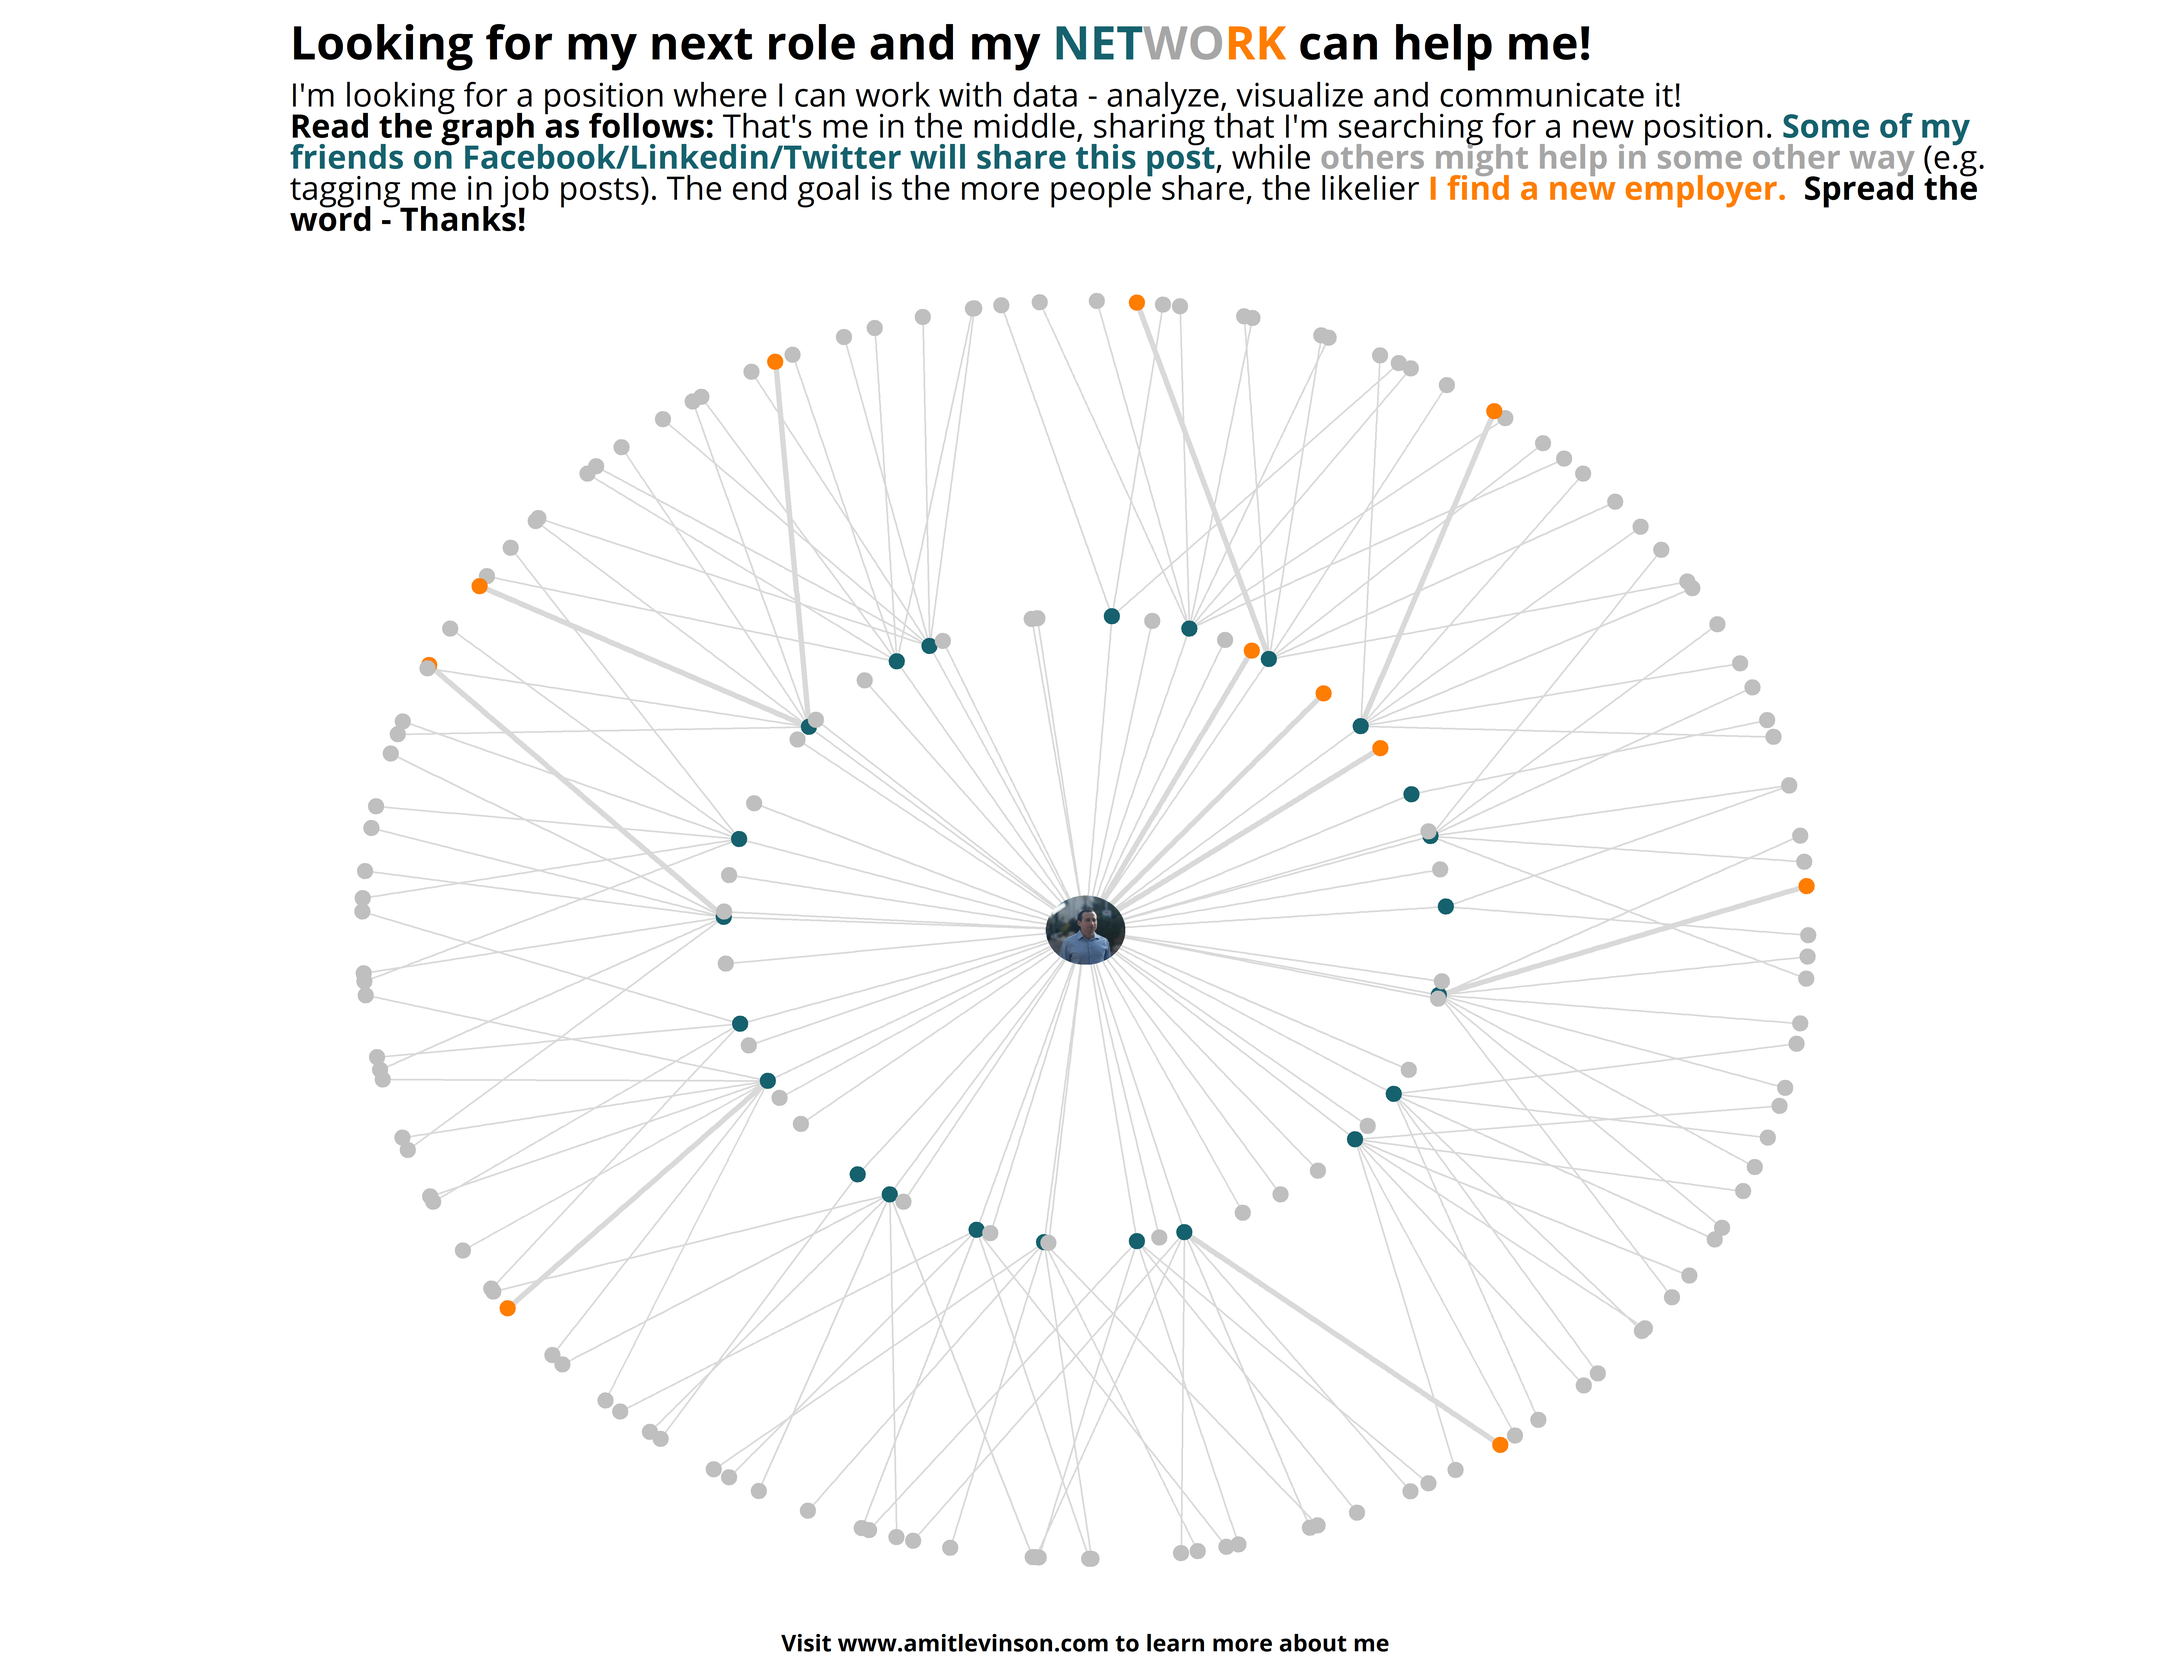
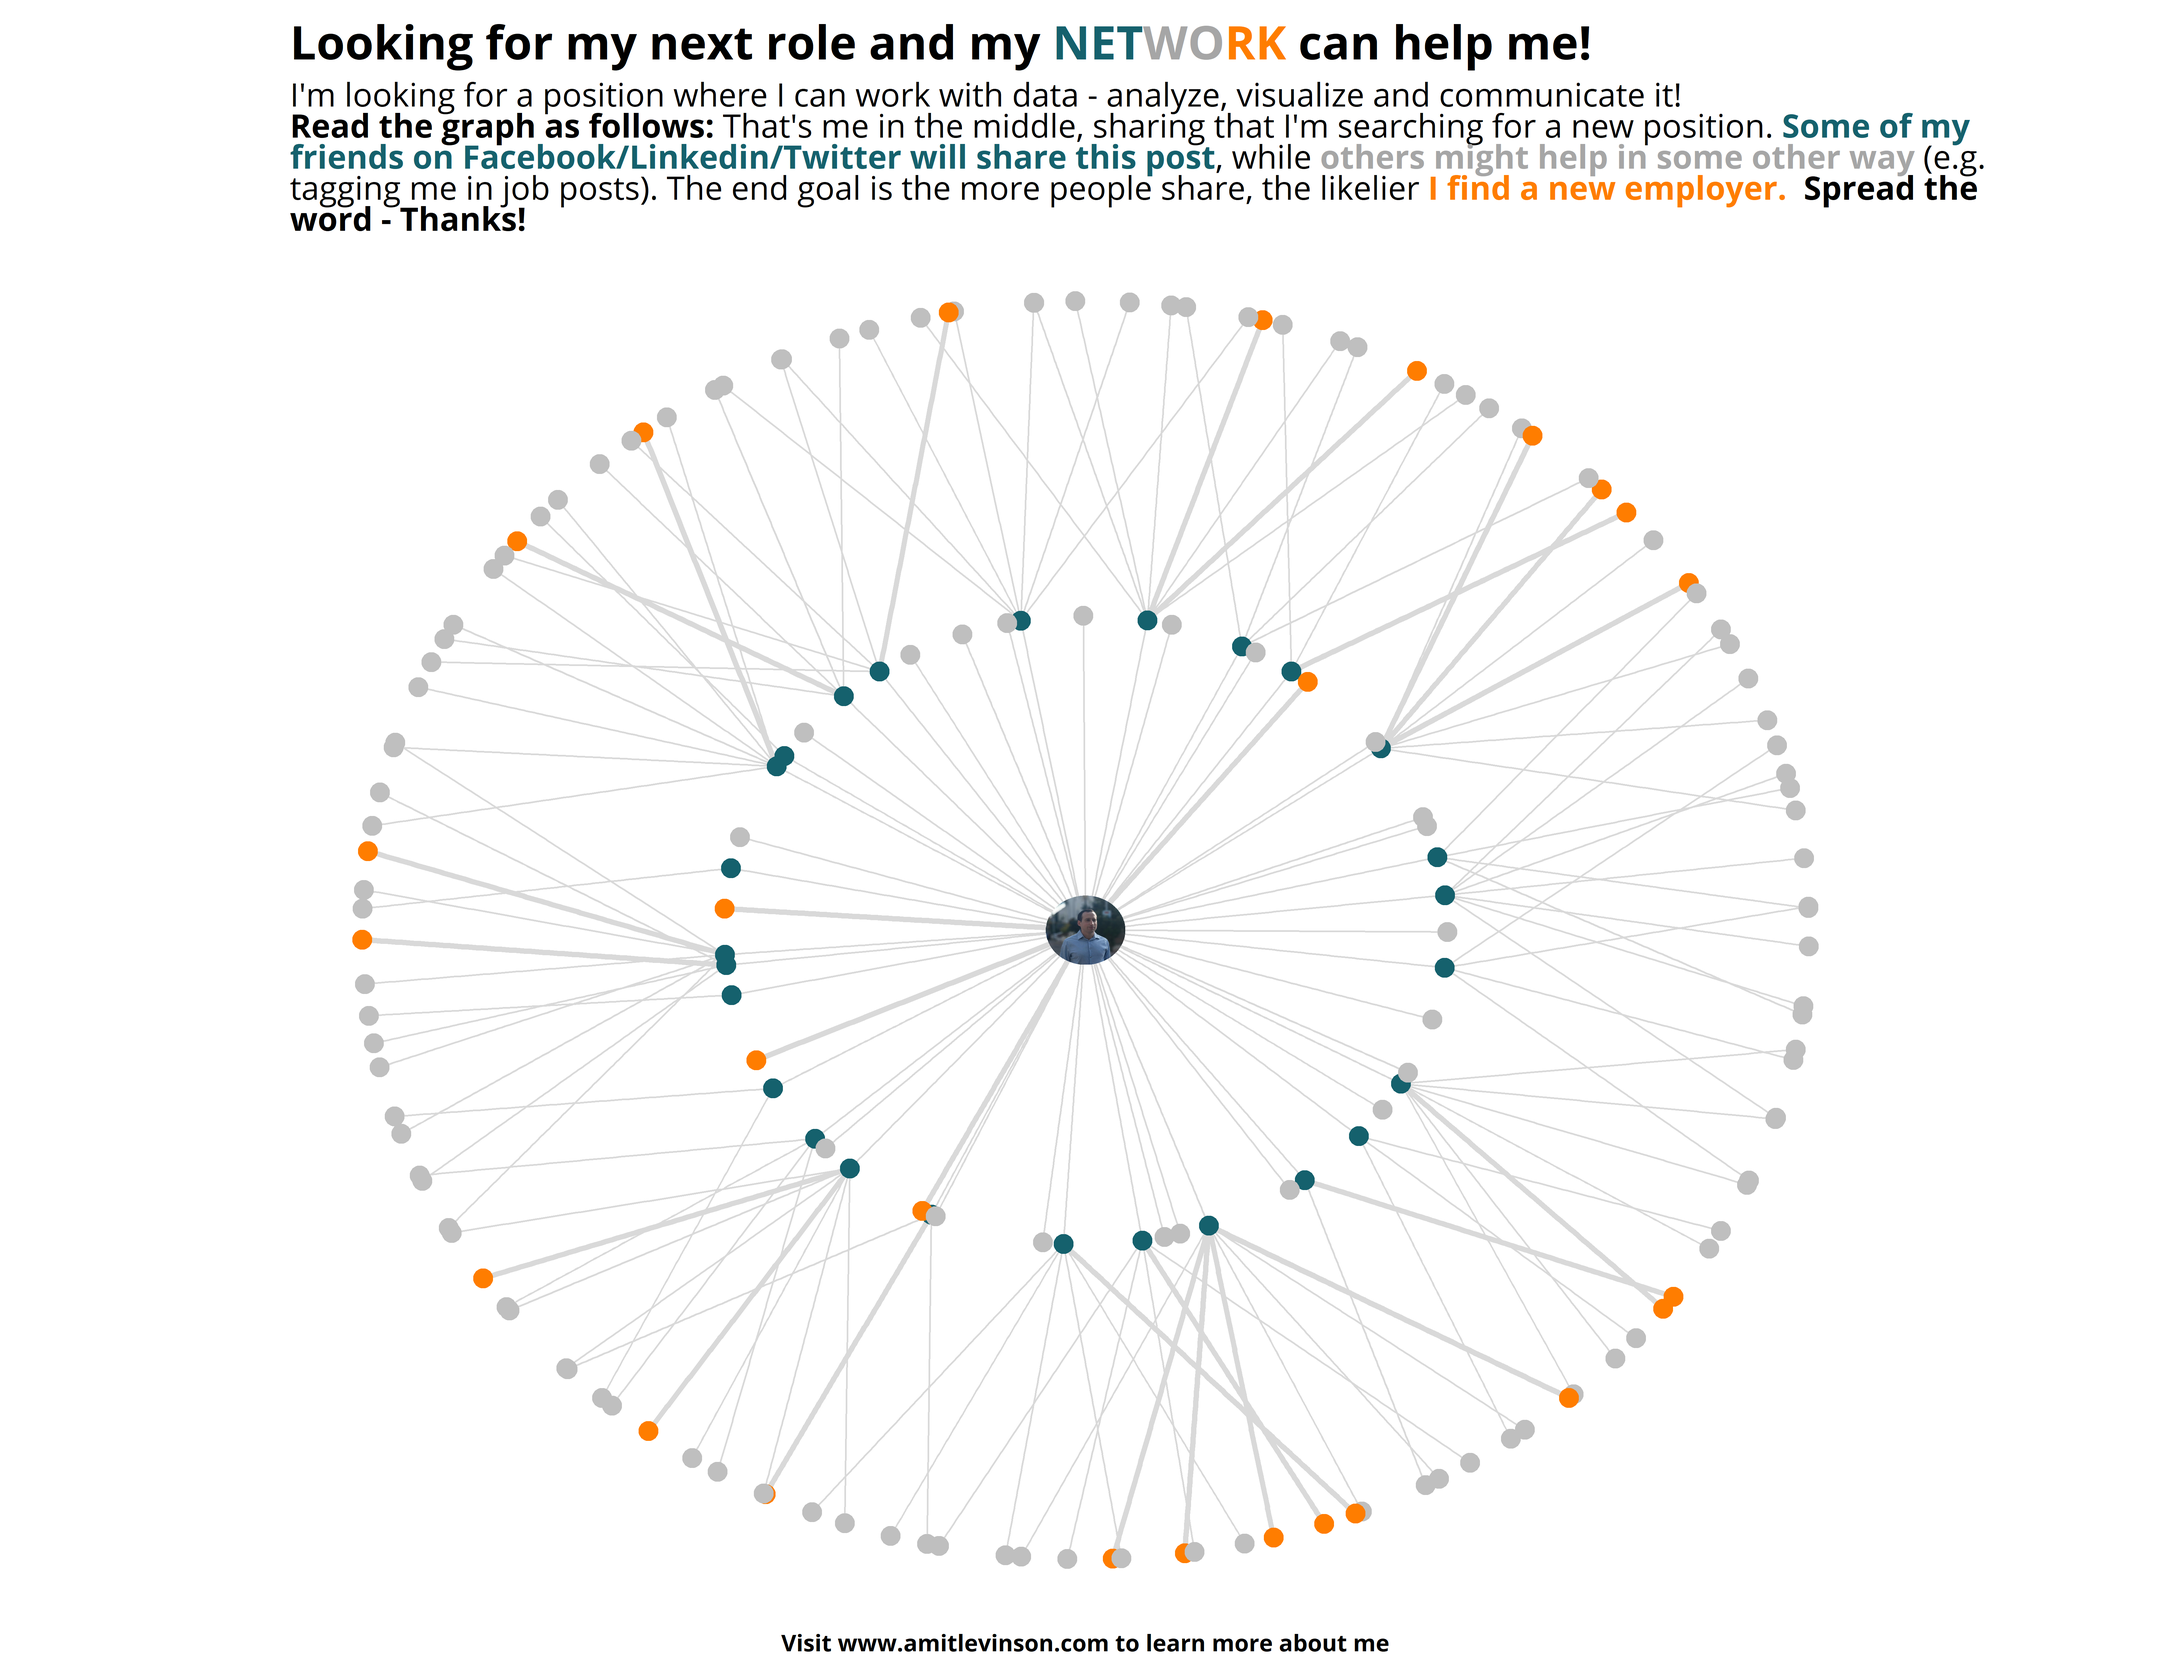
add README

Changed region(s): [[0.1562, 0.156, 0.8432, 0.936]]

diff --git a/job-search/README.md b/job-search/README.md
@@ -1,0 +1,144 @@
+## I'm looking for my next role!
+
+I wanted to post on Social Networks Sites (SNS) that I am looking for my next position. I also knew that it would be a great opportunity to showcase some of my skills, so I decided to accompany it with a graph. After some thought I decided to create a network graph emphasizing the importance of my connections spreading the word.
+
+The code is publicly available below.
+
+<details>
+  <summary>**Code for the plot**</summary>
+```{r}
+library(dplyr)
+library(ggplot2)
+library(ggtext)
+library(extrafont)
+library(purrr)
+library(ggraph)
+library(igraph)
+library(tidygraph)
+library(glue)
+library(ggimage)
+
+me <- 1
+
+# The second circle vector
+close_circle_vec <- 2:52
+
+# Create a distribution of various types of individuals in the network
+type <- sample(c("Sharer", "Non-sharing", "employer"), size = length(close_circle_vec), replace = TRUE, prob = c(0.55,0.40,0.05))
+
+# Now create the close circle network
+close_circle <- tibble(name = 1,
+                       to = close_circle_vec, 
+                       type = type)
+
+# Get the IDs of sharers to make the second outer circle
+outer_circle_vec <- close_circle %>% 
+  filter(type == "Sharer") %>% 
+  pull(to)
+
+# A function to create a set of unique nodes connected to one sharer for the outer circle
+get_friends <- function(x) {
+  # Multiply by 100 to get unique ids
+  x_unique <- x * 100
+  lb <- x_unique-5
+  up <- x_unique+5
+  # When sharing a random number of people sees it
+  n_to_sample <- sample(1:8, size = 1)
+  # Return table with the original sharer and new viewers
+  df_level2 <- tibble(name = x,
+                      to = sample(lb:up,size = n_to_sample, replace = FALSE))
+  return(df_level2)
+}
+
+# Iterate to get the 2nd (outer) circle connected to sharers
+outer_circle <- map_dfr(outer_circle_vec , get_friends)
+
+# Again, each node receives a 'type' to show how they behave in the network
+out_circle_info <- data.frame(to = unique(outer_circle$to),
+                              type = sample(c("Non-sharing", "employer") , size = length(unique(outer_circle$to)),
+                                            replace = TRUE, prob = c(0.9,0.1)))
+
+# Join it back in
+outer_circle <- outer_circle %>% 
+  left_join(out_circle_info)
+
+# Bind inner and outer circle to one data frame
+both_info <- rbind(close_circle, outer_circle) %>% 
+  # Just so we can emphsize edges to employers
+  mutate(is_employer = ifelse(type == "employer", "yes", "no"))
+
+# convert to tbl_graph
+all_network <- both_info %>% 
+  as_tbl_graph()
+
+# Create info for the nodes (wasn't evident in the first tbl_graph)
+node_info <- both_info %>%
+  select(-name) %>%
+  distinct()
+
+# Now add info to the nodes (who does what - share, not-share & employer)
+edited_graph <- all_network %>% 
+  activate(nodes) %>% 
+  mutate(name = as.integer(name)) %>% 
+  left_join(node_info, by = c("name" = "to"))
+
+# Get circular image (if doesn't exists create it with the black mask)
+if (file.exists("job-search/circle-me.png")){
+  circle_me <- "job-search/circle-me.png"
+}else{
+  
+  library(magick)
+  mask <- "job-search/mask.png" %>% 
+    image_read() %>% 
+    image_scale("425")
+  
+  circle_image <- image_read("job-search/img.jpg") %>% 
+    image_scale("475") %>% 
+    image_composite(mask, ., "plus") %>% 
+    image_trim() %>% 
+    image_transparent("white")
+  
+  image_write(circle_image, "job-search/circle-me.png")
+  
+  circle_me <- "job-search/circle-me.png"
+}
+
+# String for the colored network word in the title
+network_text <- "<span style='color:#15616D'>NET</span><span style='color:gray65'>WO</span><span style='color:#FF7D00'>RK</span>"
+
+
+ggraph(edited_graph, layout = "focus", focus = 1)+
+  geom_edge_link(aes(edge_width = factor(is_employer)), color = "gray85", show.legend = FALSE)+
+  geom_node_point(aes(filter = (name !=1), color = type), shape = 19, size = 3.5, show.legend = FALSE)+
+  # image in the middle
+  geom_image(aes(x = 0, y = 0, image = circle_me), size = 0.05)+
+  # Add node color
+  scale_color_manual(name = NULL, values = c("employer" = "#FF7D00", "Sharer" = "#15616D", "Non-sharing" = "gray75"))+
+  # Add egdge width for employers
+  scale_edge_width_manual(values = c("yes" = 1.1, "no" = 0.35))+
+  # Play with the network height/width ratio
+  coord_fixed(ratio = 1/1.15)+
+  labs(title = glue("<b>Looking for my next role and my {network_text} can help me!<b>"),
+       subtitle = "I'm looking for a position where I can work with data - analyze, visualize and communicate it!<br><b>Read the graph as follows:</b> That's me in the middle, sharing that I'm searching for a new position. <b><span style='color:#15616D'>Some of my<br>friends on Facebook/Linkedin/Twitter will share this post</span></b>, while <b><span style='color:gray65'>others might help in some other way</span></b> (e.g.<br>tagging me in job posts). The end goal is the more people share, the likelier <b><span style='color:#FF7D00'>I find a new employer.</span></b> <b>Spread the<br>word - Thanks!</b>",
+       caption = "**Visit www\\.amitlevinson.com to learn more about me**")+
+  theme_void()+
+  theme(
+    text = element_text(family = "Open Sans"),
+    legend.position = 'top',
+    plot.title = element_markdown(size = 20),
+    plot.subtitle = element_markdown(size = 14),
+    plot.caption = element_markdown(size = 10, hjust = 0.5),
+    legend.key.size = unit(0.1, "mm"),
+    plot.margin = margin(2,2,2,2, "mm")
+  )
+
+  
+# Save
+ggsave("job-search/network.png", width = 13, height = 10, dpi = 500)
+  
+```
+</details>
+
+<br>
+
+![](network.png)
